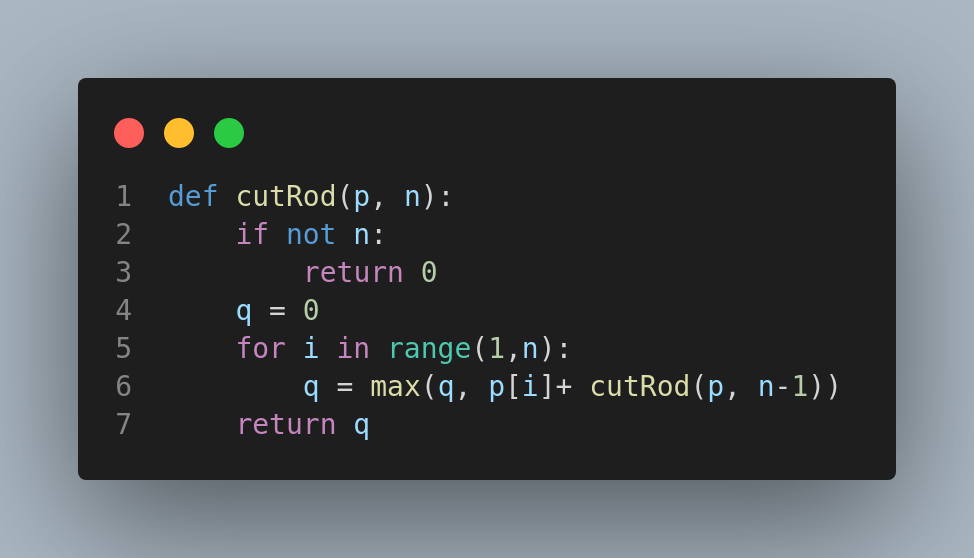
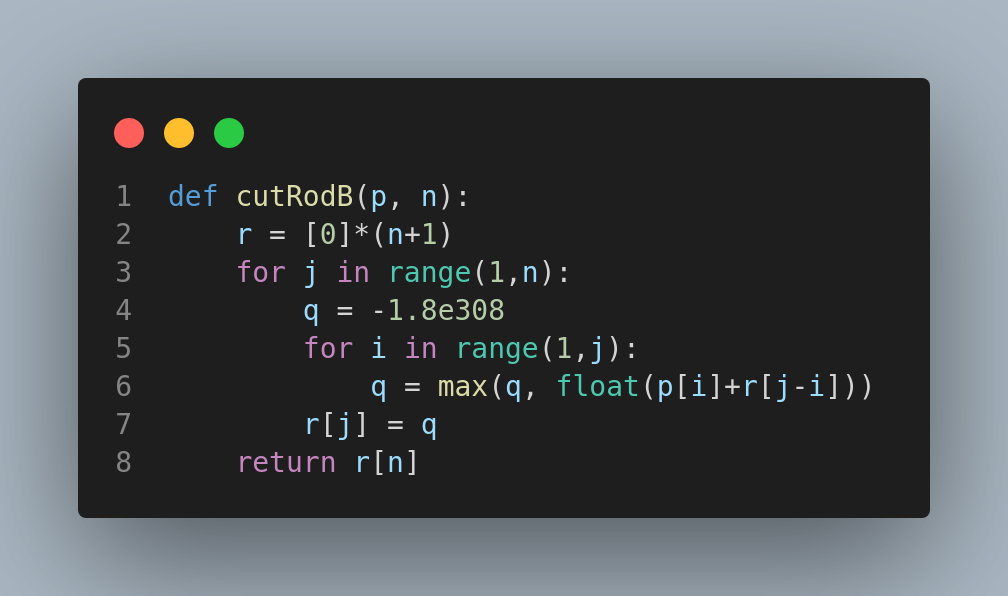
Update Lista 4 PAA

diff --git a/PAA/lista4/questao9.py b/PAA/lista4/questao9.py
@@ -1,22 +1,13 @@
-def cut_aux(p, n):
-    r = [-1]*(n+1)
-    return cutRod(p, n, r)
-    
 
-def cutRod(p, n, r):
-    if r[n] >= 0:
-        return r[n]
-    elif not n:
-        q = 0
-    else:
-        q = -1
-        for i in range(n):
-            a = p[i]+ cutRod(p, n-1, r)
-            q = max(q, a)
-            print(f"q = max({q}, {a})")
-    r[n] = q
-    return q
+def cutRodB(p, n):
+    r = [0]*(n+1)
+    for j in range(1,n):
+        q = -1.8e308
+        for i in range(1,j):
+            q = max(q, float(p[i]+r[j-i]))
+        r[j] = q
+    return r[n]
 
 
-
-print(cut_aux([2, 6,9,10,12,16], 6))
+a = [2, 6,9,10,12,16]
+cutRodB(a,6)
